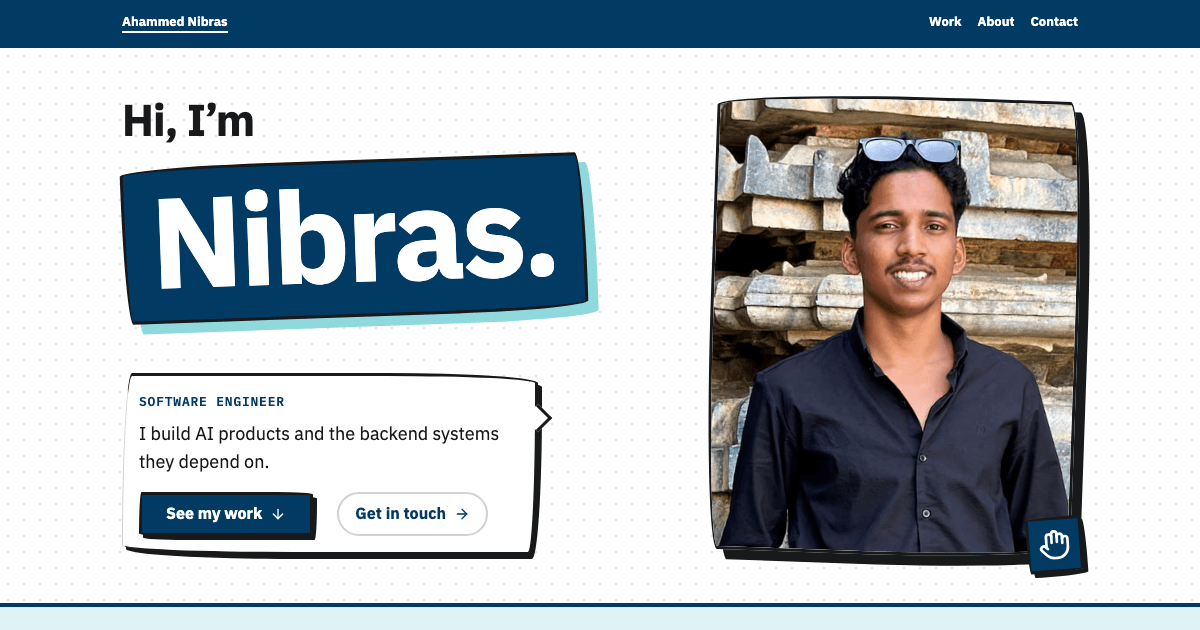
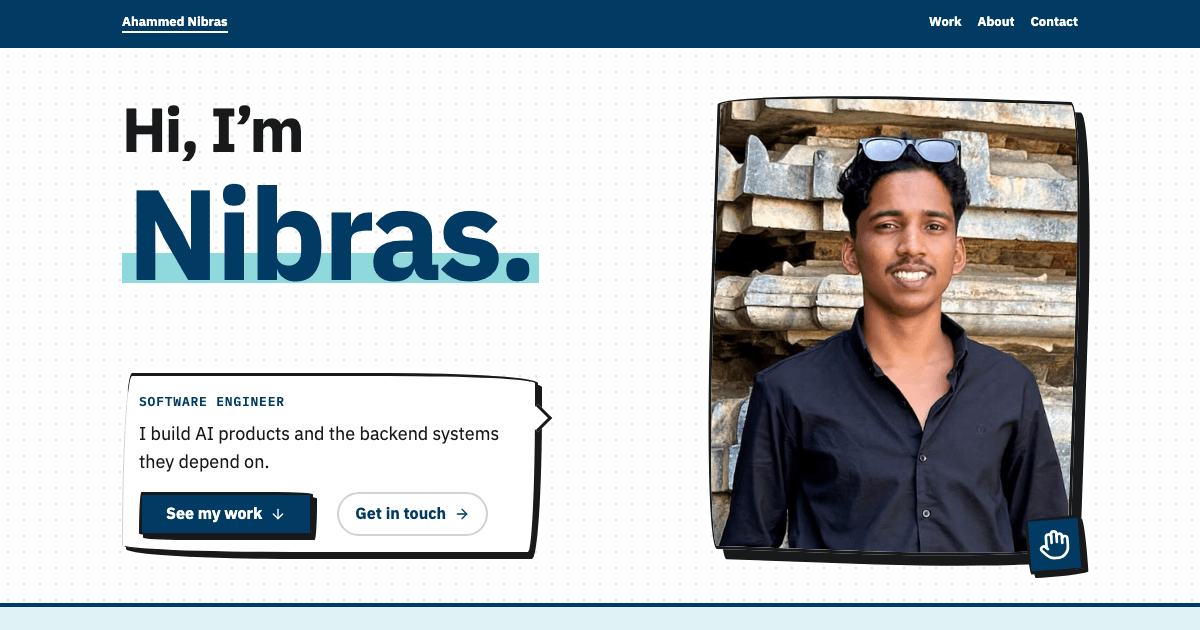
Replace the tilted name plate with clean type
The tilted plate and sketched corners distorted the name. "Nibras." is
now large navy text with one straight aqua highlight, and "Hi, I'm" is
larger so the two lines read as one sentence.

Changed region(s): [[0.0925, 0.1508, 0.5242, 0.5429]]

diff --git a/src/styles/global.css b/src/styles/global.css
@@ -875,23 +875,6 @@ article ul {
     }
   }
 
-  @keyframes name-pop {
-    0%,
-    100% {
-      rotate: -2deg;
-      scale: 1;
-    }
-
-    50% {
-      rotate: 1deg;
-      scale: 1.05;
-    }
-  }
-
-  .hero-name {
-    animation: name-pop 700ms ease-in-out 900ms;
-  }
-
   @keyframes hand-wave {
     0%,
     100% {
@@ -959,18 +942,6 @@ article ul {
 
   .title-sweep:hover {
     background-position-x: 0%;
-  }
-
-  .hero-name {
-    transition:
-      rotate var(--motion-route) var(--motion-ease-out),
-      scale var(--motion-route) var(--motion-ease-out);
-  }
-
-  h1:hover .hero-name {
-    transition-timing-function: var(--motion-ease-bounce);
-    rotate: 0deg;
-    scale: 1.04;
   }
 
   .hero-portrait {
@@ -1290,26 +1261,27 @@ article > .project-evidence > h4 {
   line-height: 0.95;
 }
 
-/* The greeting leads in quietly so the name can land on a comic title plate. */
+/* The name is the biggest thing on the page, and nothing distorts it. */
 .hero-greeting {
   display: block;
-  font-size: 0.5em;
+  font-size: 0.7em;
   line-height: 1.1;
-  letter-spacing: -0.02em;
+  letter-spacing: -0.03em;
 }
 
 .hero-name {
   display: inline-block;
-  margin-block-start: 0.12em;
-  padding: 0.06em 0.2em 0.12em;
-  background: var(--color-action);
-  border: var(--border-ink);
-  border-radius: var(--radius-sketch);
-  box-shadow: 0.625rem 0.625rem 0 var(--color-aqua);
-  color: var(--color-surface-raised);
+  margin-block-start: 0.04em;
+  padding-inline: 0.04em;
+  background: linear-gradient(
+    transparent 66%,
+    var(--color-aqua) 66%,
+    var(--color-aqua) 90%,
+    transparent 90%
+  );
+  color: var(--color-action);
   font-size: min(max(1.45em, min(18vw, 5rem)), 20vw);
   line-height: 1;
-  rotate: -2deg;
 }
 
 .exhibit-hero p {
@@ -2099,11 +2071,8 @@ article > .project-evidence > h4 {
     margin: 0;
     padding: 0;
     background: none;
-    border: 0;
-    box-shadow: none;
     color: inherit;
     font-size: inherit;
-    rotate: none;
   }
 
   .page > .exhibit-hero h2 {

diff --git a/src/styles/bands.css b/src/styles/bands.css
@@ -1,5 +1,5 @@
 /*
- * The page reads as full-width color bands that carry the hero's comic style
+ * The page reads as full-width color bands that carry the comic style
  * down the site. Screen only, so print keeps its plain document.
  */
 @media screen {

diff --git a/docs/decisions/0002-personal-design-direction.md b/docs/decisions/0002-personal-design-direction.md
@@ -40,7 +40,7 @@ The color system has a personal starting point. [Arsenal's off-white and dark re
 
 The released site uses a raised white band between two dark-red rules to mark identity, proof, and contact. Its favicon uses an outlined uppercase N from IBM Plex Sans Bold. Both treatments established continuity without inventing a separate logo system.
 
-Nibras later replaced the dark red and off-white with navy `#013A63` and soft aqua, which supersedes the color references in this record. Navy takes every action role, the page canvas is a pale aqua `#DFF3F4`, and a stronger aqua `#8FD8DC` gives the name plate its shadow. The ink for text and outlines is unchanged, and every text pairing was checked against WCAG AA.
+Nibras later replaced the dark red and off-white with navy `#013A63` and soft aqua, which supersedes the color references in this record. Navy takes every action role, the page canvas is a pale aqua `#DFF3F4`, and a stronger aqua `#8FD8DC` highlights the name and fills the About band. The ink for text and outlines is unchanged, and every text pairing was checked against WCAG AA.
 
 A 2024 study of short-story writing found that access to generative AI ideas improved how individual stories were evaluated while making AI-assisted stories more similar to one another. The study does not establish the same effect in web design. It does support using AI to critique an authored direction instead of asking it to invent the personality. See [“Generative AI enhances individual creativity but reduces the collective diversity of novel content”](https://doi.org/10.1126/sciadv.adn5290).
 
@@ -93,11 +93,11 @@ Nibras then asked to try three extras on phones after hearing the case against t
 
 The homepage hero shows Nibras's own portrait in a cartoon frame beside the name, so the speech bubble reads as Nibras speaking. Store the portrait in `src/assets/` with its metadata removed. Printing is the exception to the cartoon style. Nibras asked for a clean print layout, so the print stylesheet removes the portrait, stickers, shadows, and controls, moves the contact details to the top, and keeps the content to two A4 pages.
 
-Nibras asked to redesign the homepage heading, which read as plain text beside a cartoon page. “Hi, I’m” now leads in quietly, and “Nibras.” lands in white on a tilted red title plate with the same ink outline and hard shadow as the stickers. It pops once on load and straightens on hover. The two lines stay one heading, so assistive technology still reads “Hi, I’m Nibras.” The portrait grew and the speech bubble now lines up under the name. On phones the name comes first, because a visitor should meet the person before the photo. Print keeps plain text.
+Nibras asked to redesign the homepage heading, which read as plain text beside a cartoon page. A tilted red plate with sketched corners came first, and Nibras rejected it because it distorted the name. “Hi, I’m” now leads into a large navy “Nibras.” with one straight aqua highlight. Keep the name straight and undistorted: no plate, tilt, or warped outline. The two lines stay one heading, so assistive technology still reads “Hi, I’m Nibras.” The portrait grew and the speech bubble lines up under the name. On phones the name comes first, because a visitor should meet the person before the photo. Print keeps plain text.
 
 Nibras asked for the site to work on every device. The layout now fits from a 240px screen to a 3840px monitor, and with browser text at 200%, so never set a minimum page width. Phones on their side move the portrait beside the words, and short screens tighten the hero so the buttons stay close. Screens from 2560px scale the type up instead of leaving a narrow column. The build rewrites newer CSS syntax for older browsers, and colors avoid relative color syntax, so older iPhones and iPads keep the dots, rules, and wide layouts.
 
-Nibras asked to redesign everything, because below the hero the site read as a pale document of identical outlined boxes. The page now runs as full-width color bands that carry the name plate's comic style down the site: a navy header and footer, navy Cascade and Contact bands, and an aqua About band. The case study breaks into scannable cards with navy tab labels, the run lifecycle becomes a navy centerpiece, and About becomes one large speech bubble. All words, links, and the deployment diagram's content are unchanged. On navy, focus rings and card shadows turn aqua so they stay visible. The bands live in `src/styles/bands.css`, screen only, so print keeps its plain document.
+Nibras asked to redesign everything, because below the hero the site read as a pale document of identical outlined boxes. The page now runs as full-width color bands that carry the comic style down the site: a navy header and footer, navy Cascade and Contact bands, and an aqua About band. The case study breaks into scannable cards with navy tab labels, the run lifecycle becomes a navy centerpiece, and About becomes one large speech bubble. All words, links, and the deployment diagram's content are unchanged. On navy, focus rings and card shadows turn aqua so they stay visible. The bands live in `src/styles/bands.css`, screen only, so print keeps its plain document.
 
 Every SVG comes unchanged from Lucide. Stickers are decorative, stay hidden from assistive technology, and never replace visible text. Do not hand-draw SVG paths or approximate a brand mark: GitHub and LinkedIn use generic Lucide icons until an official asset is added.
 
